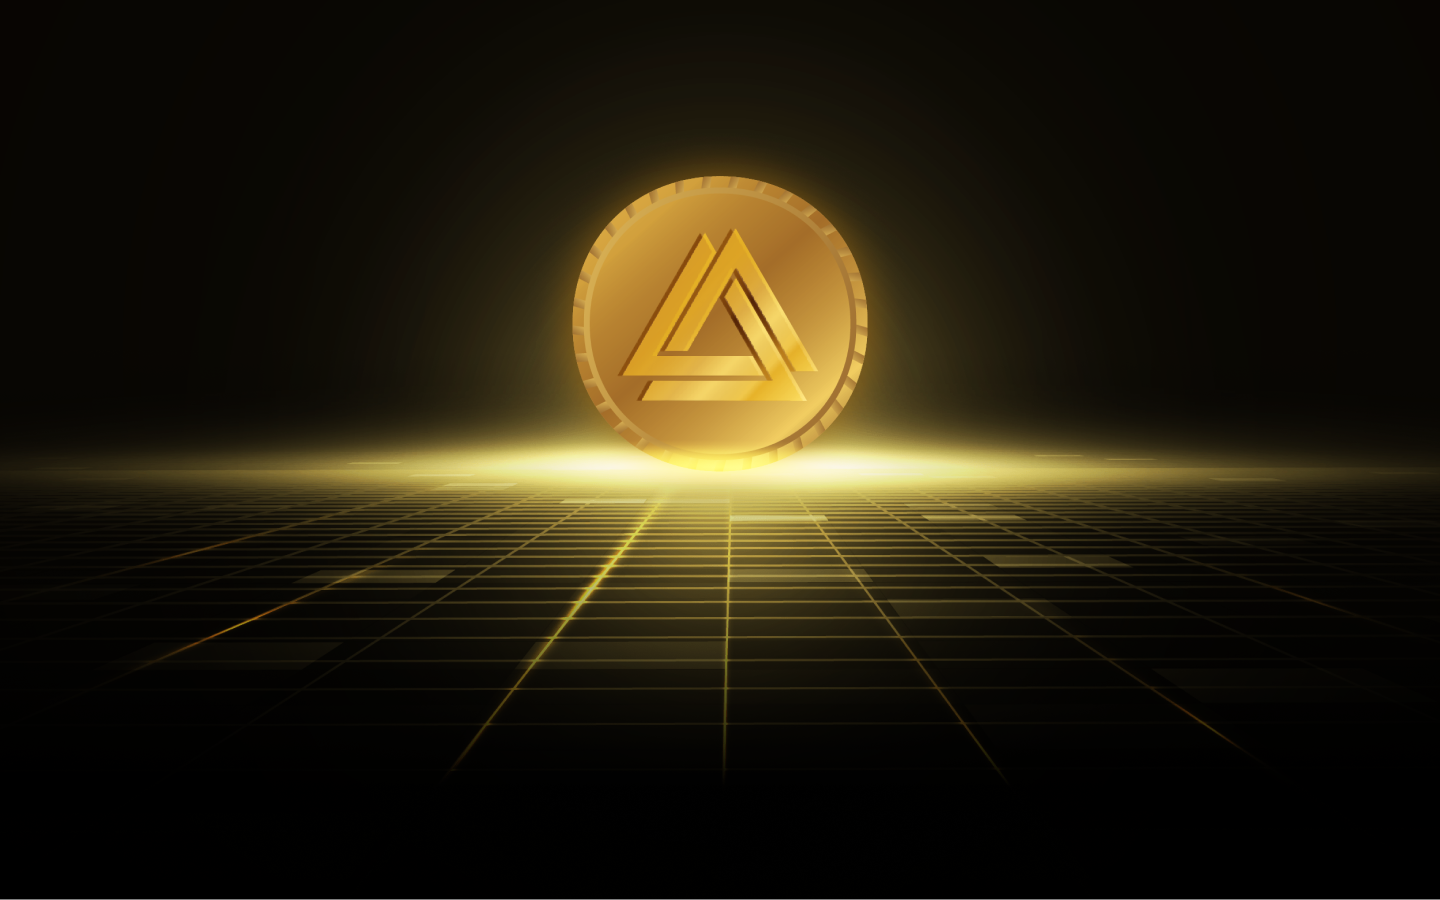
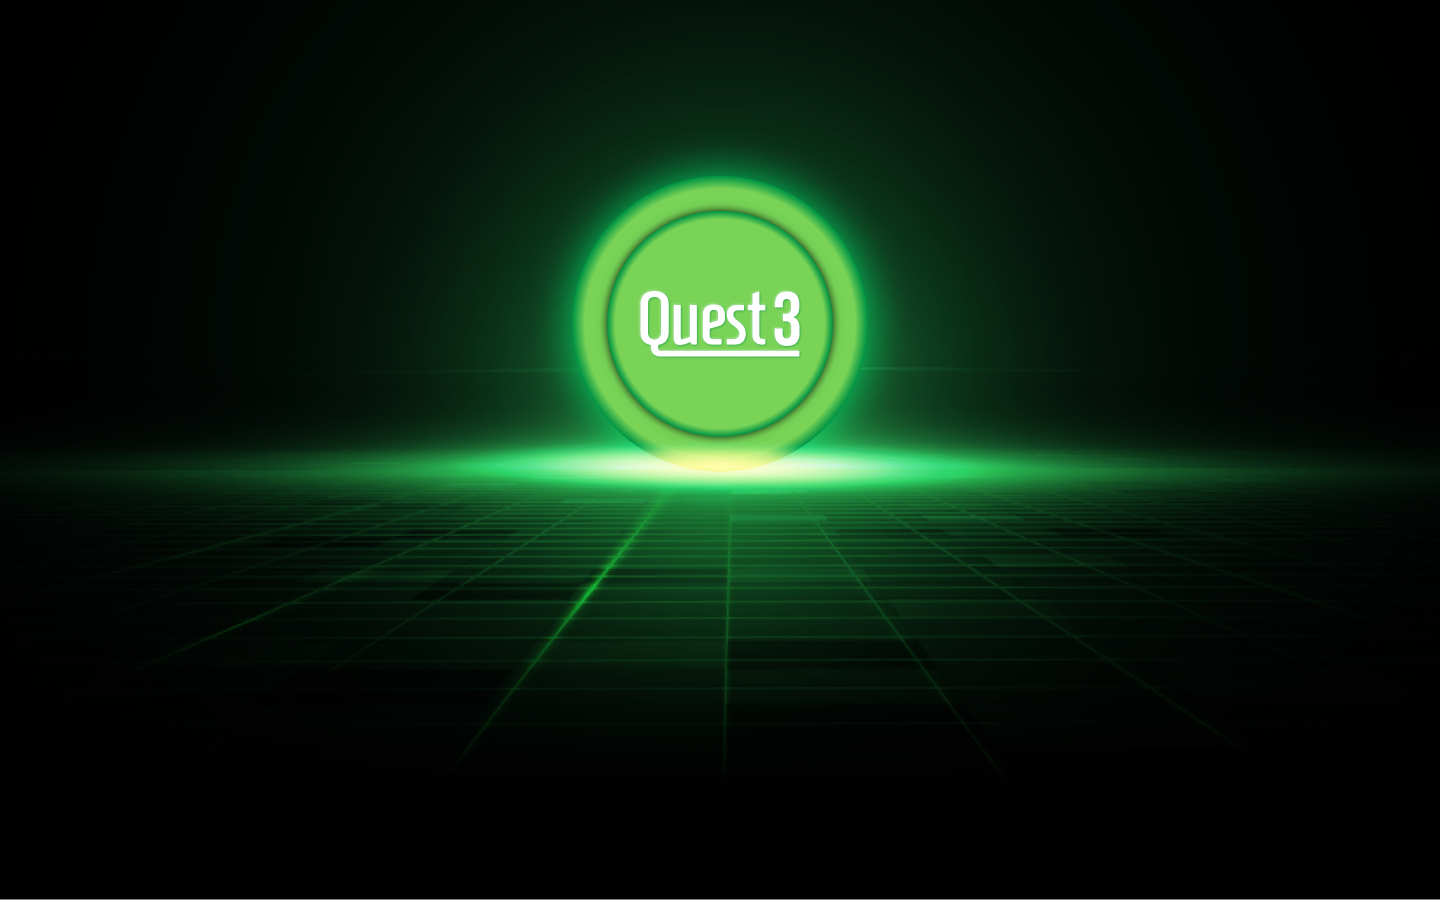
color theam

Changed region(s): [[0.0, 0.1244, 1.0, 0.8089], [0.1562, 0.6844, 0.1875, 0.7156]]

diff --git a/src/styles/index.css b/src/styles/index.css
@@ -52,7 +52,7 @@ input:focus {
   z-index: 1;
   /* background-color:#122382!important; */
   /* background: linear-gradient(to right, #0036ff 0%, #000b4f 100%)!important; */
-  background-image: linear-gradient(to right, #A77327, #EFD67B,#A77327) !important;
+  background-image: linear-gradient(to right, #1A874E, #00DA68,#1A874E) !important;
   color: #000 !important;
   font-size: 16px;
   font-weight: 500;
@@ -105,7 +105,7 @@ input:focus {
   background-color: #181818 !important;
 }
 .bg-dark-750 {
-  background-image: linear-gradient(to right, #A77327, #EFD67B,#A77327) !important; 
+  background-image: linear-gradient(to right, #1A874E, #00DA68,#1A874E) !important; 
   color: black !important;
 }
 .bg-dark-1000 {
@@ -179,7 +179,7 @@ input:focus {
 }
 .iGmWvA, .ejtIWl{
   background:#000!important;
-  border-top: 2px solid #A77327 !important;
+  border-top: 2px solid #1A874E !important;
 }
 .text-secondary {
   color: black !important;
@@ -220,7 +220,7 @@ input:focus {
 
 .flex.items-center.rounded.bg-dark-600.space-x-3{
   background-color: transparent !important;
-  border: 3px solid #B5A368 !important;
+  border: 3px solid #00DA68 !important;
   margin-bottom: 10px !important;
 }
 .flex-col.text-high-emphesis.text-base.font-medium.font-bold.text-high-emphesis {
@@ -229,7 +229,7 @@ input:focus {
   /* border: 2px solid #000b4f !important; */
   font-size: 20pc;
   border-radius: 10px !important;
-  background-image: linear-gradient(to right, #A77327, #EFD67B,#A77327) !important;
+  background-image: linear-gradient(to right, #1A874E, #00DA68,#1A874E) !important;
 }
 
 .font-medium {
@@ -264,7 +264,7 @@ background-color: #000!important;
   color: #000 !important;
 }
 .sc-fOICqy.kUDAWB #swap-button{
-  background-image: linear-gradient(to right, #A77327, #EFD67B,#A77327) !important;
+  background-image: linear-gradient(to right, #1A874E, #00DA68,#1A874E) !important;
 } 
 
 .sc-box-shadow{
@@ -311,7 +311,7 @@ background-color: #000!important;
 }
 
 .sc-eAKXzc.idXFHj{
-  background-image: linear-gradient(to right, #A77327, #EFD67B,#A77327) !important;
+  background-image: linear-gradient(to right, #1A874E, #00DA68,#1A874E) !important;
   color:white!important;
 }
 
@@ -403,14 +403,14 @@ background-color: #000!important;
 }
 
 .text-sm.text-secondary.py-2.px-3{
-  background-image: linear-gradient(to right, #A77327, #EFD67B,#A77327) !important;
+  background-image: linear-gradient(to right, #1A874E, #00DA68,#1A874E) !important;
 
   /* background-color: #001070!important; */
   color:black;
 }
 
 .sc-htpNat.sc-ifAKCX.sc-gzVnrw.lhznlv .rounded-full {
-  background-image: linear-gradient(to right, #A77327, #EFD67B,#A77327) !important;
+  background-image: linear-gradient(to right, #1A874E, #00DA68,#1A874E) !important;
   /* background-color: #000b4f !important; */
   border-radius: 50% !important;
 }
@@ -419,11 +419,11 @@ background-color: #000!important;
   border-radius: 10px !important;
 }
 .sc-hrWEMg.iVKCkD {
-  border: 1px solid #B5A368 !important;
+  border: 1px solid #00DA68 !important;
   border-radius: 5px !important;
 }
 .sc-kasBVs.iGmWvA, #pool-page{
-  border-top: 2px solid #A77327 !important;
+  border-top: 2px solid #1A874E !important;
 }
 #pool-page{
   background-color: #000 !important;
@@ -497,7 +497,7 @@ iframe{
   display: none !important;
 }
 .elRDOC:hover{
-  background-color: #B5A368!important;
+  background-color: #00DA68!important;
 }
 .gBTQyo {
   color:#fff!important;
@@ -559,12 +559,12 @@ color:#080808!important;
 }
 
 .kADbam{
-  background-image: linear-gradient(to right, #A77327, #EFD67B,#A77327) !important;
+  background-image: linear-gradient(to right, #1A874E, #00DA68,#1A874E) !important;
  border: none!important; 
  background-color: transparent !important;
 }
 .fWRHau{
-  background-image: linear-gradient(to right, #A77327, #EFD67B,#A77327) !important;
+  background-image: linear-gradient(to right, #1A874E, #00DA68,#1A874E) !important;
   background-color: none !important;
   border:none !important;
   
@@ -592,7 +592,7 @@ color:#080808!important;
 }
 
 .iCHfpt,.udsrm {
-  background-image: linear-gradient(to right, #A77327, #EFD67B,#A77327) !important;
+  background-image: linear-gradient(to right, #1A874E, #00DA68,#1A874E) !important;
   border:none !important;
   color:white !important;
   outline: none !important;
@@ -609,13 +609,13 @@ color:#080808!important;
 line-height: 0.5rem !important;;
 }
 .cEGchG:hover {
-  border: 1px solid #A77327 !important;
+  border: 1px solid #1A874E !important;
 }
 .kPnZCD:hover {
-  border: 1px solid #A77327 !important;
+  border: 1px solid #1A874E !important;
 }
 .gQbTBI:hover {
-  border: 1px solid #A77327 !important;
+  border: 1px solid #1A874E !important;
 }
 .fXUEJo{
   color:#fff !important;
@@ -623,7 +623,7 @@ line-height: 0.5rem !important;;
 }
 .sc-hMFtBS.sc-iGPElx.ldBRkH,.sc-gwVKww.sc-emmjRN.jvMfRv,.flex.flex-col.h-full.w-full.bg-dark-900.rounded.overflow-y-auto.p-6{
   background-color: black !important;
-    border: 2px solid #A77327;
+    border: 2px solid #1A874E;
     border-radius: 10px;
 }
 .bECgIR {
@@ -652,14 +652,14 @@ line-height: 0.5rem !important;;
   color:white !important;
 }
 .sc-htpNat.jkjxPR.sc-dnqmqq.sc-kGXeez.dVylHm{
-  background-image: linear-gradient(to right, #A77327, #EFD67B,#A77327) !important;
+  background-image: linear-gradient(to right, #1A874E, #00DA68,#1A874E) !important;
  border: none !important;
 }
 .jtZBVY{
   background-color: #000 !important;
 }
 .beBfdo:hover {
-  border: 1px solid #EFD67B !important;
+  border: 1px solid #00DA68 !important;
 }
 .kADbam:focus{
   box-shadow: none !important;
@@ -678,7 +678,7 @@ line-height: 0.5rem !important;;
   padding: 20px;
   padding-right: 35px;
   overflow: hidden;
-  border:2px solid #A77327 !important;
+  border:2px solid #1A874E !important;
  
 }
 .css-1a92al5 {
@@ -691,7 +691,7 @@ line-height: 0.5rem !important;;
 }
 
 .ehqTwk {
-  background-image: linear-gradient(to right, #A77327, #EFD67B,#A77327) !important;
+  background-image: linear-gradient(to right, #1A874E, #00DA68,#1A874E) !important;
   color: #000;
 }
 

diff --git a/src/styles/homepage.css b/src/styles/homepage.css
@@ -32,7 +32,7 @@ body{
     max-width: 700px;
 }
 .common-btn{
-    background: linear-gradient(90deg, #A77327 0%, #EFD67B 49.79%, #A77327 100%);
+    background: linear-gradient(90deg, #00DA68 0%, #1A874E 100%);
     border-radius: 6px;
     padding: 12px 20px;
     text-align: center;
@@ -53,7 +53,7 @@ body{
     line-height: 20px;
     text-align: center;
     font-feature-settings: 'salt' on, 'liga' off;
-    background: linear-gradient(90deg, #A77327 0%, #EFD67B 49.79%, #A77327 100%);
+    background: linear-gradient(90deg, #00DA68 0%, #1A874E 100%);
     -webkit-background-clip: text;
     -webkit-text-fill-color: transparent;
     background-clip: text;
@@ -66,7 +66,7 @@ body{
     margin: 10px;
 }
 .box-banner-new {
-    background: linear-gradient(90deg, rgba(239, 214, 123, 0.1) 0%, rgba(239, 214, 123, 0) 100%);
+    background: linear-gradient(90deg, rgba(26, 135, 78, 0.1) 0%, rgba(26, 135, 78, 0) 100%) !important;
     border-radius: 12px;
     padding: 30px;
 }
@@ -78,7 +78,7 @@ body{
 
 
 .box-banner-new h3{
-    background: linear-gradient(90deg, #A77327 0%, #EFD67B 49.79%, #A77327 100%);
+    background: linear-gradient(90deg, #00DA68 0%, #1A874E 100%);
     -webkit-background-clip: text;
     -webkit-text-fill-color: transparent;
     background-clip: text;
@@ -102,7 +102,7 @@ body{
     width: 100%;
 }
 .common-heading{
-    background: linear-gradient(90deg, #A77327 0%, #EFD67B 49.79%, #A77327 100%);
+    background: linear-gradient(90deg, #00DA68 0%, #1A874E 100%);
     -webkit-background-clip: text;
     -webkit-text-fill-color: transparent;
     background-clip: text;
@@ -119,7 +119,7 @@ body{
     line-height: 32px;
 }
 .pickone-box{
-    background: linear-gradient(90deg, rgba(239, 214, 123, 0.1) 0%, rgba(239, 214, 123, 0) 100%);
+    background: linear-gradient(90deg, rgba(26, 135, 78, 0.1) 0%, rgba(26, 135, 78, 0) 100%) !important;
     border-radius: 12px;
     padding: 20px;
     min-height: 220px;
@@ -135,7 +135,7 @@ body{
     height: 60px;
     width: 60px;
     border-radius: 50%;
-    color: #A77327;
+    color: #00DA68;
     letter-spacing: 0.5px;
     display: block;
     text-align: center;
@@ -339,7 +339,7 @@ body{
 
 body.inner-swap-body .sc-box-shadow {
     box-shadow: none  !important;
-    border: 2px solid #d0ab57;
+    border: 2px solid #00DA68;
     border-radius: 10px !important;
     background-color: #0e0e0e !important;
 }
@@ -352,7 +352,7 @@ body.inner-swap-body .fXEza {
 }
 body.inner-swap-body .bcDZKy {
     background-color: #080808;
-    border: 2px solid #d0ab57;
+    border: 2px solid #00DA68;
     overflow: hidden;
     border-radius: 10px;
 }
@@ -423,7 +423,7 @@ body.inner-swap-body #swap-currency-input .bg-transparent.px-2.py-1.border-low-e
 body.inner-swap-body .rounded.bg-dark-800.pr-3 .bg-transparent.rounded-full.text-secondary.text-xs.font-medium.whitespace-nowrap {
     margin: 0 5px !important;
     background-color: #2f281c !important;
-    border: 1px solid #EFD67B !important;
+    border: 1px solid #00DA68 !important;
 }
 
 body.inner-swap-body .css-68pfx3,
@@ -445,7 +445,7 @@ body.inner-swap-body .sc-cTjmhe.recipient-address-input.fFLAIU{
 align-items: center;
 }
 .flex.items-center.justify-center.rounded-md.text-center.text-secondary.text-base.font-medium.text-high-emphesis.bg-dark-900 {
-    background-image: linear-gradient(to right, #A77327, #EFD67B,#A77327)  !important;
+    background-image: linear-gradient(to right, #1A874E, #00DA68,#1A874E)  !important;
     color: #000 !important;
     font-weight: 700 !important;
 }
@@ -459,7 +459,7 @@ body.inner-swap-body .swap-header-outer.flex.justify-between.space-x-2 .bg-dark-
 }
 .yield-box-new .relative.h-full .flex.flex-col.items-center .flex.justify-between.w-full .items-center .text-lg.whitespace-nowrap {
     font-size: 32px !important;
-    background: linear-gradient(90deg, #A77327 0%, #EFD67B 49.79%, #A77327 100%);
+    background: linear-gradient(90deg, #00DA68 0%, #1A874E 100%);
     -webkit-background-clip: text;
     -webkit-text-fill-color: transparent;
     background-clip: text;
@@ -476,19 +476,19 @@ body.inner-swap-body .swap-header-outer.flex.justify-between.space-x-2 .bg-dark-
     color: #fff !important;
 }
 .yield-box-new .relative.h-full .space-y-4 .col-span-2.text-center .w-full.rounded.text-base.text-high-emphesis.px-4.py-3{
-    background-image: linear-gradient(to right, #A77327, #EFD67B,#A77327)  !important;
+    background-image: linear-gradient(to right, #1A874E, #00DA68,#1A874E)  !important;
     color: #000 !important;
     font-weight: 700 !important;
     border: none !important;
 }
 .yield-box-new .relative.h-full .space-y-4 .w-full.rounded.text-base.text-high-emphesis.px-4.py-3{
-    background-image: linear-gradient(to right, #A77327, #EFD67B,#A77327)  !important;
+    background-image: linear-gradient(to right, #1A874E, #00DA68,#1A874E)  !important;
     color: #000 !important;
     font-weight: 700 !important;
     border: none !important;
 }
 .grid.gap-4.grid-cols-1.px-4 .bg-dark-800.border-2.border-solid.border-gray-700{
-    background-image: linear-gradient(to right, #A77327, #EFD67B,#A77327)  !important;
+    background-image: linear-gradient(to right, #1A874E, #00DA68,#1A874E)  !important;
     color: #000 !important;
     font-weight: 700 !important;
     border: none !important;

diff --git a/src/theme/index.tsx b/src/theme/index.tsx
@@ -49,7 +49,7 @@ export function colors(darkMode: boolean): Colors {
         // backgrounds / greys
         bg1: darkMode ? '#202231' : '#FFFFFF',
         bg2: darkMode ? 'rgb(22, 21, 34)' : '#F7F8FA',
-        bg3: darkMode ? '#A77327' : '#EFD67B',
+        bg3: darkMode ? '#1A874E' : '#00DA68',
         bg4: darkMode ? '#3a506f' : '#CED0D9',
         bg5: darkMode ? '#6C7284' : '#888D9B',
 
